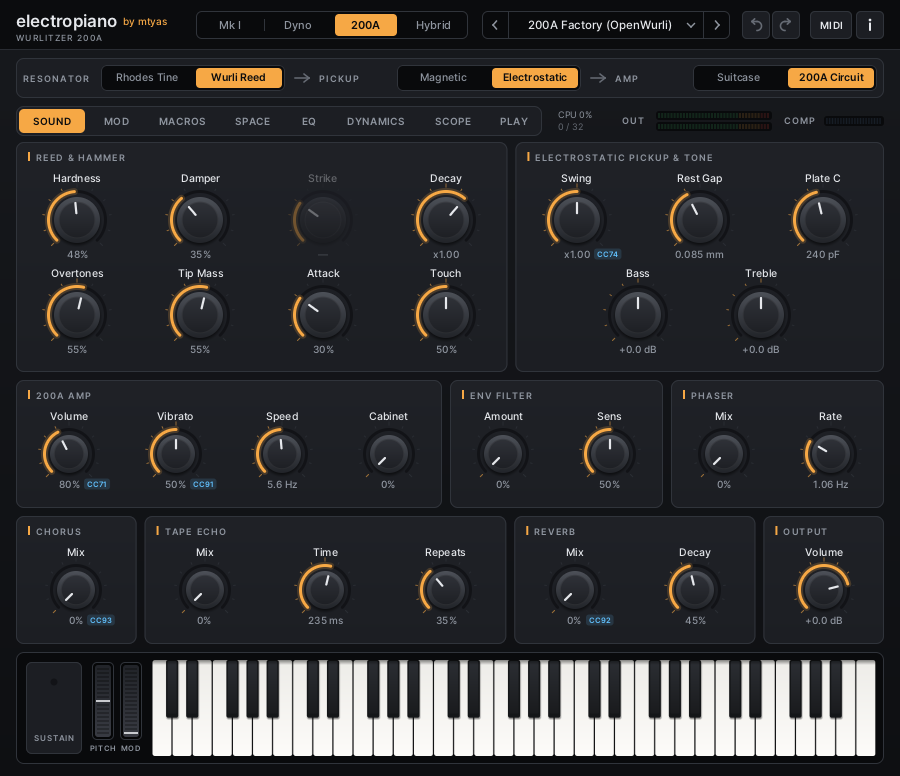
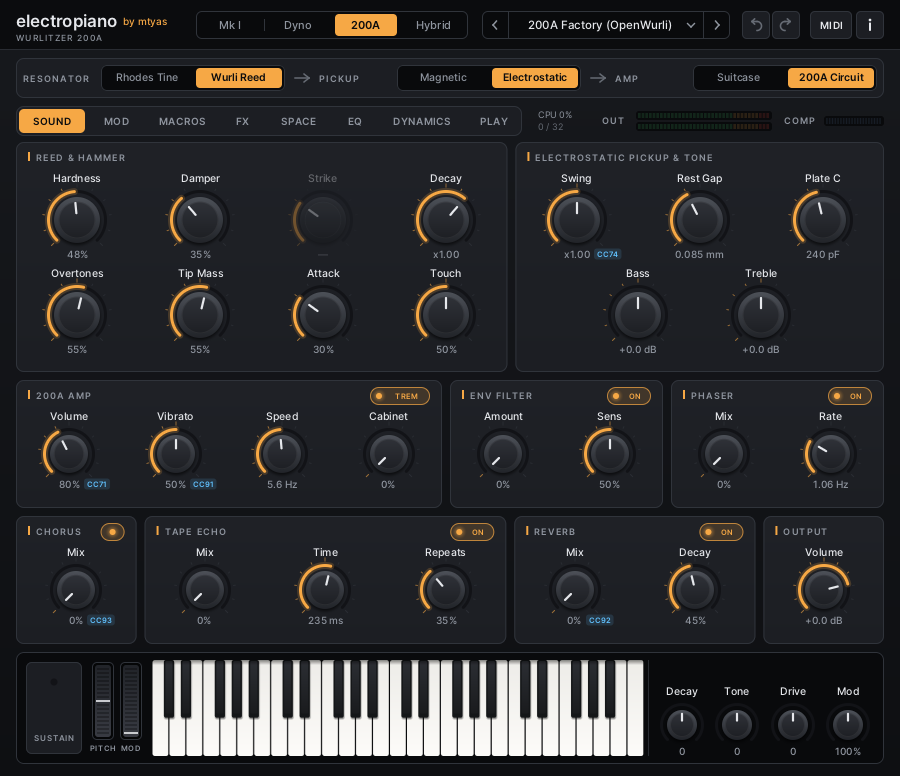
Docs: new screenshots and text for 0.84
New FX and Easy-control screenshots, every editor image re-rendered with
the 0.84 editor, the screenshot tool updated for the new page layout, and
the README and manual updated for the easy controls, FX page, switches,
fast LFOs, custom tuning and faster editor.

diff --git a/tools/render_manual_screenshots.mm b/tools/render_manual_screenshots.mm
@@ -119,7 +119,8 @@ int main(int argc, char** argv) {
             playChord(engine, {40, 47, 52, 56, 59, 64});
             auto settle = [&]() { for (int i = 0; i < 40; ++i) engine.processBlock(l, r, 512); };
             settle();
-            const float tabX[8] = {52, 116, 182, 253, 309, 376, 453, 514};
+            // Page tab centres: Sound, Mod, Macros, FX, Space, EQ, Dynamics, Play
+            const float tabX[8] = {52, 116, 182, 243, 299, 355, 422, 494};
             auto page = [&](int i, const char* name) {
                 ed->mouseDown(tabX[i], 655, false, 20.0 + i);
                 settle();
@@ -130,10 +131,22 @@ int main(int argc, char** argv) {
             shoot(view, "editor_mod_list.png");
             ed->keyAction(phs::gui::Key::Escape);
             page(2, "editor_macros.png");
-            page(3, "editor_space.png");
-            page(4, "editor_eq.png");
-            page(5, "editor_dynamics.png");
-            page(6, "editor_scope.png");
+            // FX: a resonant envelope filter, a six-stage phaser with negative feedback, a wide chorus
+            engine.setParamNormalized(kParamWahAmount, 0.45f);
+            engine.setParamNormalized(kParamWahReso, 0.72f);
+            engine.setParamNormalized(kParamPhaserMix, 0.55f);
+            engine.setParamNormalized(kParamPhaserStages, 0.5f);
+            engine.setParamNormalized(kParamPhaserFeedback, 0.32f);
+            engine.setParamNormalized(kParamChorusMix, 0.4f);
+            engine.setParamNormalized(kParamChorusWidth, 0.75f);
+            page(3, "editor_fx.png");
+            for (uint32_t id : {kParamWahAmount, kParamWahReso, kParamPhaserMix, kParamPhaserStages, kParamPhaserFeedback,
+                                kParamChorusMix, kParamChorusWidth}) {
+                engine.setParamNormalized(id, kParamMetadata[id].defaultValue);
+            }
+            page(4, "editor_space.png");
+            page(5, "editor_eq.png");
+            page(6, "editor_dynamics.png");
             // Play: just intonation loaded (the tuning arrow), a played-in instrument, a little spread
             engine.setParamNormalized(kParamCondition, 0.35f);
             engine.setParamNormalized(kParamStereoSpread, 0.4f);
@@ -144,6 +157,13 @@ int main(int argc, char** argv) {
             engine.getTuning().resetToEqual();
             ed->mouseDown(tabX[0], 655, false, 50.0);
             shoot(view, "editor_sound.png");
+            // Easy controls: Tone turned down, Drive up; the knobs they move show it
+            engine.setParamNormalized(kParamEasyTone, 0.25f);
+            engine.setParamNormalized(kParamEasyDrive, 0.75f);
+            settle();
+            shoot(view, "editor_easy.png");
+            engine.setParamNormalized(kParamEasyTone, 0.5f);
+            engine.setParamNormalized(kParamEasyDrive, 0.5f);
             engine.setParamNormalized(kParamMpeMode, 0.0f);
             for (int n : {40, 47, 52, 56, 59, 64}) engine.noteOff(n);
             for (int i = 0; i < 20; ++i) engine.processBlock(l, r, 512);

diff --git a/README.md b/README.md
@@ -35,19 +35,27 @@ amplifier**, or a **Wurlitzer reed on a Rhodes pickup**.
   Amp (Suitcase / 200A circuit), mixed freely.
 - **100+ controls** across eight pages, with labels and read-outs that follow the stages you
   choose: hammer, tine/reed, pickup geometry, amp, envelope filter, phaser, chorus, tape echo, reverb.
+- **Easy controls** — **Decay**, **Tone**, **Drive** and **Mod** knobs beside the keyboard, each
+  moving every setting behind one idea at once; the knobs they move show where they've been taken.
+- **Effects in depth** — an FX page with a multi-mode envelope filter (resonance, release,
+  direction), a 2 – 12-stage phaser with feedback and stereo spread, and a chorus with rate, depth,
+  delay and width; every effect, the EQ and the compressor has an **on / off** switch.
 - **MPE and per-note expression** — per-note pitch bend (tines and reeds, even while they ring),
   pressure and slide; CLAP note expressions.
-- **Modulation matrix** — two LFOs (five shapes, tempo sync), six slots, nine sources, 39 targets.
+- **Modulation matrix** — two LFOs (five shapes, up to 400 Hz, tempo sync), six slots, nine
+  sources, 39 targets, with live views of each LFO and of what every slot is doing.
 - **"Impossible instrument" macros** — tine material (steel → glass → carbon), up to four pickups,
   audio-rate gap FM, and a tine ⇄ reed **morph** inside a held note.
 - **A mastering section** — four-band parametric EQ with an interactive curve and live spectrum,
   a full compressor and output limiter, nine miked cabinets with mic position, distance and room,
   spring or hall reverb, tempo-synced tremolo / phaser / echo, oversampled preamp.
 - **Played like the real thing** — repeated notes strike the still-ringing tine, half-pedalling,
-  sostenuto, soft pedal and release velocity, sympathetic resonance with the pedal down, and a
-  **Condition** control that gives every key its own small imperfections.
-- **Microtuning** — Scala `.scl` / `.kbm` files, built-in historical temperaments and EDOs, MIDI
-  Tuning Standard; saved with the project. Master tune, transpose, 8 – 64 voices.
+  sostenuto, soft pedal and release velocity, sympathetic resonance, and a **Condition** control
+  that gives every key its own imperfections, from subtle to well-worn.
+- **Microtuning** — Scala `.scl` / `.kbm` files, 24 built-in tunings (historical temperaments,
+  just and harmonic scales, maqams, gamelan, EDOs, Bohlen-Pierce), a **custom scale** you draw by
+  dragging each note, and MIDI Tuning Standard; saved with the project. Master tune, transpose,
+  8 – 64 voices.
 - **Studio hall and plate reverbs** with pre-delay, a tri-chorus, keyboard stereo spread.
 - **28 factory presets**, including OpenWurli's calibrated 200A and cross-instrument hybrids.
 - **One resizable editor on every platform** (75 – 200 %), MIDI learn, undo/redo, A/B compare,
@@ -75,7 +83,7 @@ amplifier**, or a **Wurlitzer reed on a Rhodes pickup**.
 <td><img src="docs/images/editor_eq.png" alt="Mastering EQ"></td>
 </tr>
 <tr>
-<td align="center">Modulation, MPE and tempo sync</td>
+<td align="center">Modulation: live LFOs and matrix, MPE, tempo sync</td>
 <td align="center">Four-band mastering EQ with live spectrum</td>
 </tr>
 <tr>
@@ -87,11 +95,19 @@ amplifier**, or a **Wurlitzer reed on a Rhodes pickup**.
 <td align="center">Macros: material, pickups, gap FM, morph</td>
 </tr>
 <tr>
+<td><img src="docs/images/editor_fx.png" alt="FX page"></td>
+<td><img src="docs/images/editor_easy.png" alt="Easy controls"></td>
+</tr>
+<tr>
+<td align="center">FX: envelope filter, phaser and chorus in depth</td>
+<td align="center">Easy Tone and Drive: the knobs they move show where they've been taken</td>
+</tr>
+<tr>
 <td><img src="docs/images/editor_play.png" alt="Play page"></td>
 <td><img src="docs/images/editor_space.png" alt="Space page"></td>
 </tr>
 <tr>
-<td align="center">Play: Scala microtuning, pedals and realism, A/B, zoom</td>
+<td align="center">Play: tunings and a custom scale, pedals and realism, A/B, zoom</td>
 <td align="center">Space: cabinets, studio hall / plate / spring reverb, echo, chorus</td>
 </tr>
 </table>

diff --git a/docs/MANUAL.md b/docs/MANUAL.md
@@ -148,9 +148,14 @@ tremolo / vibrato depth.
 
 ### Easy controls
 
+![Easy Tone turned down and Drive up: the knobs they move show a blue ring and the value you hear](images/editor_easy.png)
+
 Four knobs to the right of the keyboard, on every page. Each one moves every setting behind one
 idea at once, as an offset on top of the panels (the panel knobs themselves don't move). At the
-centre they change nothing; double-click one to return it there.
+centre they change nothing; double-click one to return it there. Every knob an easy control is
+moving shows it: a **blue ring** runs from the knob's own setting to where it really is, and its
+read-out turns blue and shows the value you hear (turn Tone down and you see Bass go up). The
+pointer stays on the knob's own setting, so you can still turn it as usual.
 
 | Knob | Turned left | Turned right | What it moves |
 |---|---|---|---|
@@ -265,6 +270,8 @@ Every effect, the amp's tremolo (**TREM**), the EQ and the compressor has an **o
 its title bar. Switching off keeps every setting.
 
 ### The FX page
+
+![The FX page](images/editor_fx.png)
 
 | Effect | Controls |
 |---|---|
@@ -579,6 +586,12 @@ Mappings are saved with your project.
   cabinet already shapes the tone like a real one would.
 - **Tone bar for pads.** High **Tone Bar** and long **Decay** give a blooming, shimmering
   sustain (preset *Ambient Tine Pad*).
+- **Start with the easy knobs.** **Tone**, **Decay** and **Drive** get a preset most of the way
+  to what you hear in your head; then fine-tune the knobs they light up in blue.
+- **Phaser as a resonator.** Twelve stages, a narrow **Depth** and **Feedback** near +90 % turn the
+  phaser into a tuned, singing filter; at −90 % it hollows the sound like a flanger.
+- **Audio-rate LFOs.** Push an LFO's Rate into the last quarter (hundreds of Hz) and route it to
+  **Air Gap** or **Drive** for metallic, ring-modulated tones.
 
 ---
 
@@ -639,9 +652,11 @@ the limiter has instant attack and a smooth release. The cabinets are procedural
 shelf, a presence peak, a short comb for off-axis, five early reflections). The editor draws the
 EQ and cabinet curves from the very same filters, so the curve is what you hear.
 
-**Editor.** One editor shared by all platforms. macOS draws it with CoreGraphics; Windows and
-Linux draw it with a built-in anti-aliased renderer using the Inter typeface, so it looks the
-same everywhere.
+**Editor.** One editor shared by all platforms. macOS draws it with CoreGraphics (gradients and
+shadows are rendered once and reused); Windows and Linux draw it with a built-in anti-aliased
+renderer using the Inter typeface, which fills shapes in spans and only anti-aliases their edges,
+so it looks the same everywhere. Only what changed is repainted: a moving meter, a key or the
+analyser redraws its own region, at 60 frames a second.
 
 ---
 
